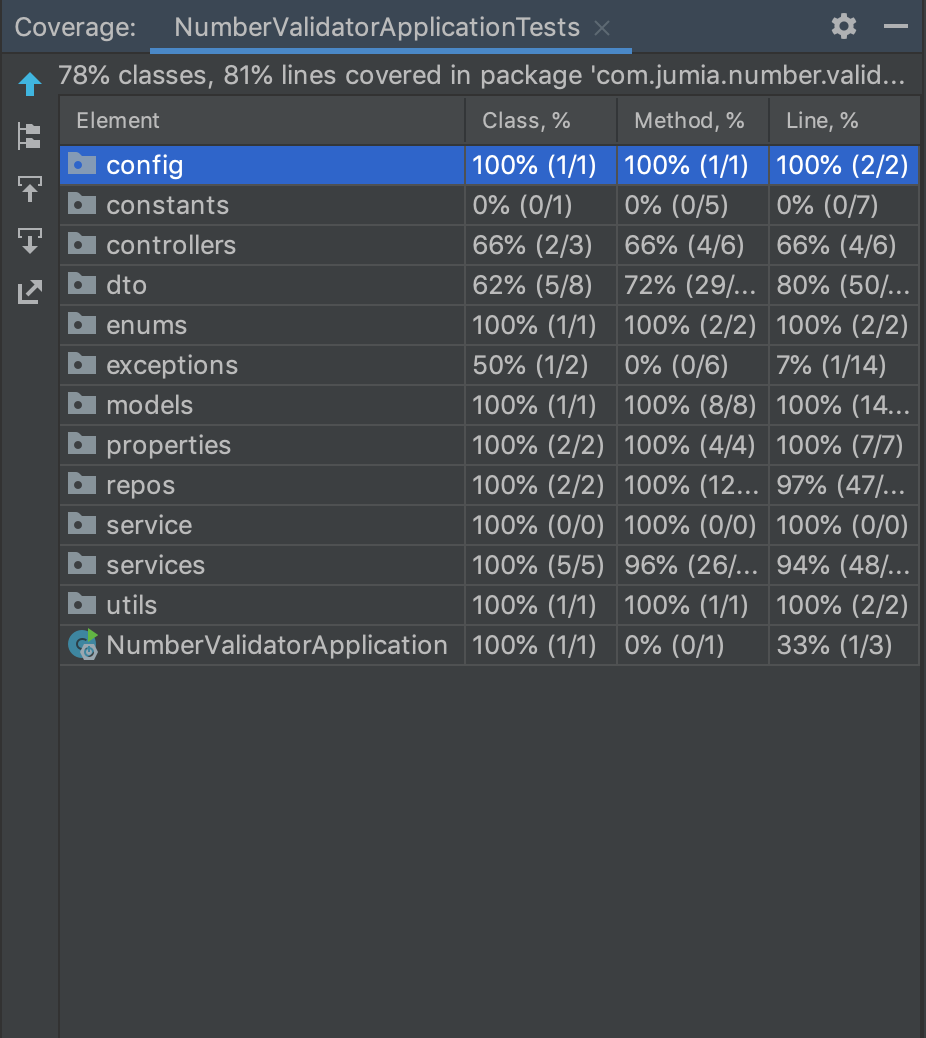
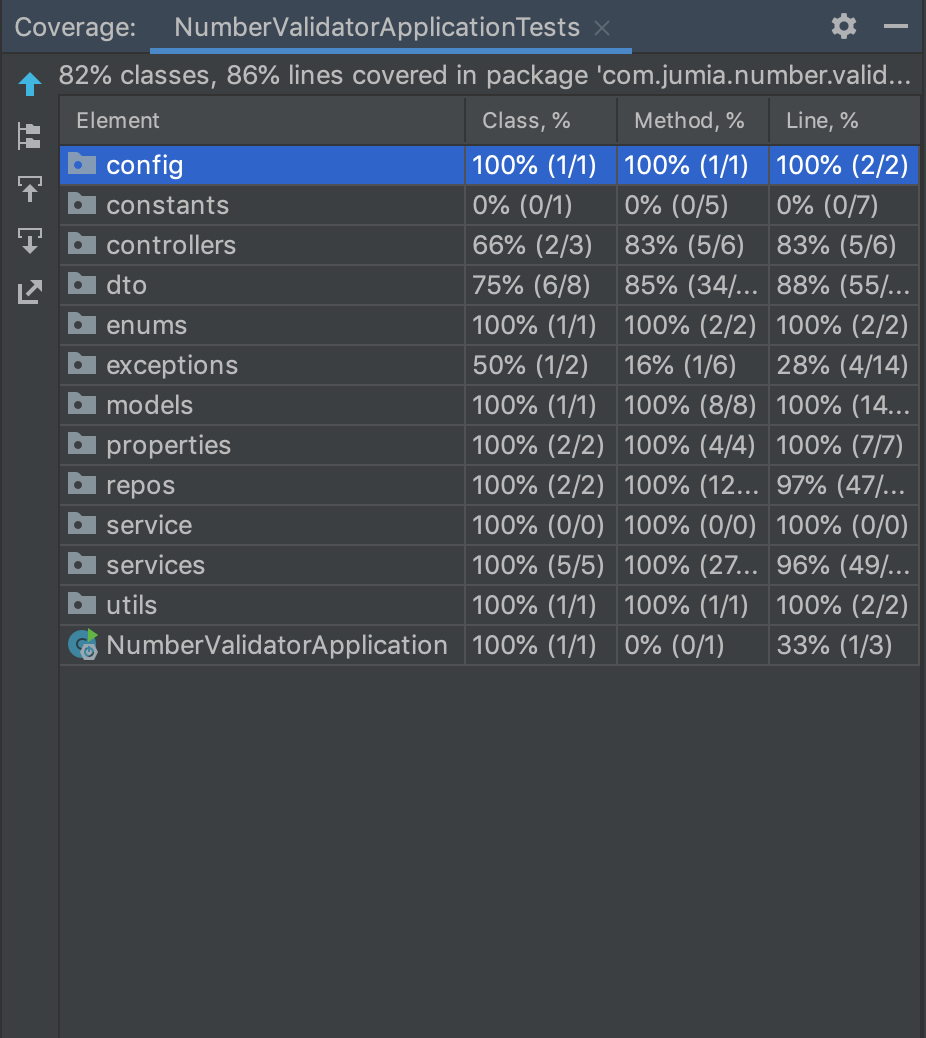
updating readme add error testcase add web interface face

diff --git a/number-validator/src/test/java/com/jumia/number/validator/NumberValidatorApplicationTests.java b/number-validator/src/test/java/com/jumia/number/validator/NumberValidatorApplicationTests.java
@@ -4,6 +4,7 @@ import com.fasterxml.jackson.core.type.TypeReference;
 import com.fasterxml.jackson.databind.ObjectMapper;
 import com.jumia.number.validator.dto.CountryNumberSchema;
 import com.jumia.number.validator.dto.NumbersResponse;
+import com.jumia.number.validator.dto.ServiceResponseDto;
 import com.jumia.number.validator.enums.NumberState;
 import org.junit.jupiter.api.*;
 import org.springframework.beans.factory.annotation.Autowired;
@@ -294,5 +295,20 @@ class NumberValidatorApplicationTests {
     void TestCountryLookUp() throws Exception {
         Map result = TestUtils.performGetRequest(mockMvc, "/countries", null, Map.class);
         assert result.size() > 0;
+    }
+
+
+    @Test
+    void BadRequestNoSortColumn() throws Exception {
+        int page = 2;
+        int elements = 5;
+        Map<String, Object> paramMap = new HashMap<>();
+        paramMap.put("page", page);
+        paramMap.put("numberOfItems", elements);
+        paramMap.put("sort", "RANDOM");
+        ServiceResponseDto response = TestUtils.performGetRequest(mockMvc, "/numbers", paramMap, ServiceResponseDto.class);
+        assert response.getCode() == 500;
+
+
     }
 }

diff --git a/README.md b/README.md
@@ -31,5 +31,9 @@ I came out with two approches for number validating,
 ```
 http://localhost:8080/
 ```
+
+## Web Interface
+![alt text](https://raw.githubusercontent.com/Mustafa-Mamdouh/JumiaTask/master/front-end.png)
+
 ## Test Coverage
 ![alt text](https://raw.githubusercontent.com/Mustafa-Mamdouh/JumiaTask/master/test-coverage.png)
